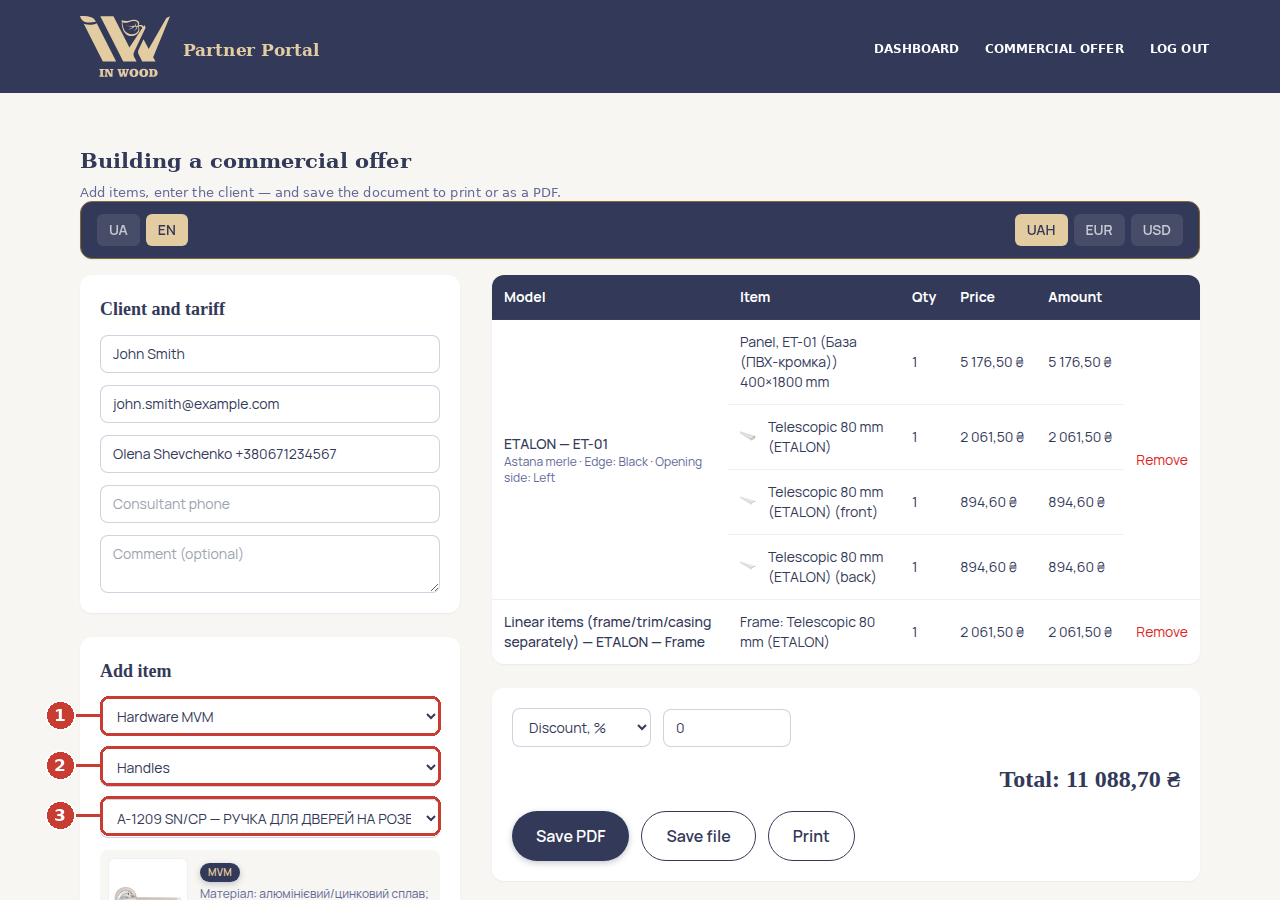
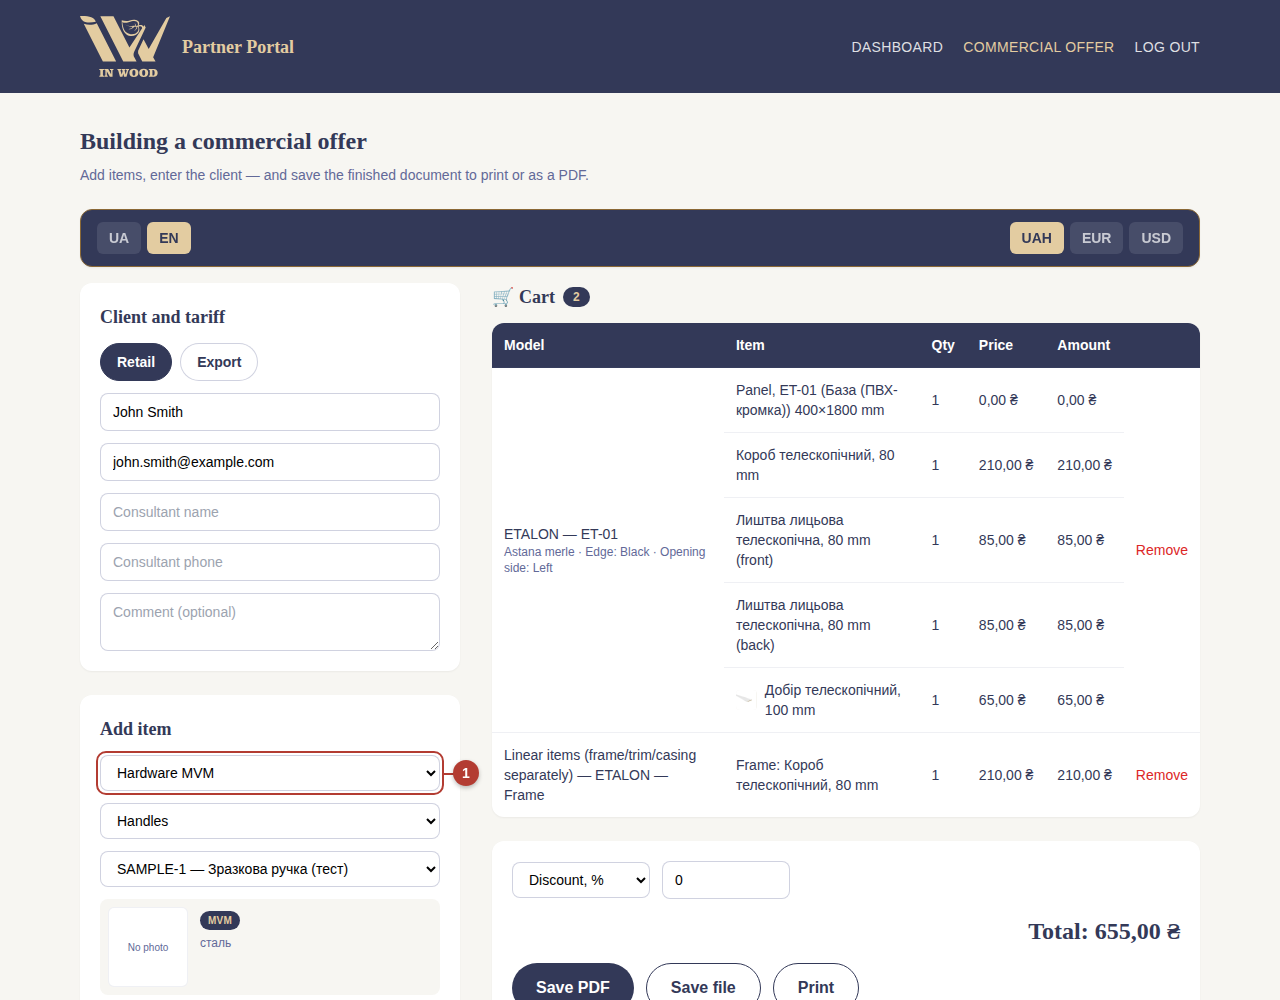
Update calculator guide for the cart/tariff-toggle UI, add download button
Retook the screenshots that show the tariff selector, "Кошик"/"Cart"
heading and the renamed "Додати в кошик"/"Add to cart" button (both UA
and EN guides); left screenshots of unaffected steps (login, dashboard,
model picker) as they were. Added a short new paragraph explaining that
tariff buttons recompute prices for items already in the cart.

Also add an explicit "Скачати"/"Download" button next to each guide link
(previously view-only), matching the pattern already used for the price
lists.

Claude-Session: https://claude.ai/code/session_01M4ragP56yp6LZMW2UaRQXo

diff --git a/public/documents/instruktsiya-kalkuliator.html b/public/documents/instruktsiya-kalkuliator.html
@@ -184,11 +184,12 @@
     <p>Перш ніж заповнювати — коротко про те, що є на екрані:</p>
     <ol class="points">
       <li><b>Панель мови й валюти</b> — переключити весь калькулятор на англійську та/або перерахувати ціни в EUR/USD (про це нижче, кроки 8–9).</li>
-      <li><b>«Клієнт і тариф»</b> — ім'я й телефон клієнта, для кого робите пропозицію.</li>
+      <li><b>«Клієнт і тариф»</b> — ім'я й телефон клієнта, для кого робите пропозицію. Тут-таки — кнопки тарифу (напр. «Дилерська» / «Роздрібна»): якою натиснута, за такою ціною й рахує калькулятор.</li>
       <li><b>«Додати позицію»</b> — тут обираєте модель, колір, розмір і все комплектуючі для однієї позиції КП.</li>
-      <li><b>Таблиця справа</b> — сюди потрапляють усі додані позиції, тут же підсумкова сума.</li>
+      <li><b>«Кошик» справа</b> — сюди потрапляють усі додані позиції (кнопкою «Додати в кошик»), тут же підсумкова сума.</li>
     </ol>
-    <div class="shot"><img src="instruktsiya-kalkuliator-img/03-overview.png?v=2" alt="Загальний вигляд калькулятора"></div>
+    <div class="shot"><img src="instruktsiya-kalkuliator-img/03-overview.png?v=3" alt="Загальний вигляд калькулятора"></div>
+    <div class="callout"><b>Новинка:</b> кнопки тарифу працюють і для вже доданих у кошик позицій — натиснули іншу кнопку, і ціна всього кошика одразу перерахувалась під новий тариф, нічого видаляти й збирати заново не треба. Зручно, щоб швидко показати собі і дилерську, і роздрібну ціну одного й того ж замовлення.</div>
   </div>
 
   <div class="step" id="s4">
@@ -207,7 +208,7 @@
       <li><b>Ширина і висота</b> — зі стандартного ряду розмірів. Нижче в тому самому списку є ще кілька нестандартних значень (крок 50 мм) з позначкою «нестандарт +20%» — вибираєте просто зі списку, доплату калькулятор порахує сам.</li>
     </ol>
     <div class="shot"><img src="instruktsiya-kalkuliator-img/05-model.png?v=2" alt="Вибір моделі, кольору і розміру"></div>
-    <div class="callout"><b>Якщо з'явились ще поля</b> — «Колір крайки», «Колір вставки» чи «Сторона відкривання» — вони обов'язкові саме для цієї моделі, заповніть і їх, інакше кнопка «Додати позицію» внизу лишиться неактивною.</div>
+    <div class="callout"><b>Якщо з'явились ще поля</b> — «Колір крайки», «Колір вставки» чи «Сторона відкривання» — вони обов'язкові саме для цієї моделі, заповніть і їх, інакше кнопка «Додати в кошик» внизу лишиться неактивною.</div>
   </div>
 
   <div class="step" id="s6">
@@ -224,28 +225,28 @@
 
   <div class="step" id="s7">
     <div class="step-head"><span class="step-num">7</span><h2>Додавання позиції й підсумок</h2></div>
-    <p>Коли все обрано — кнопка <b>«Додати позицію»</b> стає активною. Натисніть її: рядок переходить у таблицю справа, і можна одразу додавати наступну позицію (інша модель чи колір) тим самим способом.</p>
+    <p>Коли все обрано — кнопка <b>«Додати в кошик»</b> стає активною. Натисніть її: рядок переходить у «Кошик» справа, і можна одразу додавати наступну позицію (інша модель чи колір) тим самим способом.</p>
     <ol class="points">
       <li>Позиція з повною розбивкою ціни по кожній складовій.</li>
       <li>«Видалити» — прибрати позицію, якщо помилились.</li>
       <li>Знижка — у відсотках або в гривнях, якщо домовились з клієнтом.</li>
-      <li>Підсумкова сума по всьому КП.</li>
+      <li>Підсумкова сума по всьому кошику.</li>
       <li>Три кнопки збереження — про них у кроці 10.</li>
     </ol>
-    <div class="shot"><img src="instruktsiya-kalkuliator-img/06-table.png?v=3" alt="Позицію додано в таблицю"></div>
+    <div class="shot"><img src="instruktsiya-kalkuliator-img/06-table.png?v=3" alt="Позицію додано в кошик"></div>
   </div>
 
   <div class="step" id="s8">
     <div class="step-head"><span class="step-num">8</span><h2>Переклад на англійську</h2></div>
     <p>Якщо клієнт — іноземний, натисніть <b>EN</b> у панелі зверху: весь екран (назви, кнопки, таблиця) одразу перемикається на англійську, не лише друкований бланк.</p>
-    <div class="shot"><img src="instruktsiya-kalkuliator-img/07-english.png?v=2" alt="Перемикач англійської мови"></div>
+    <div class="shot"><img src="instruktsiya-kalkuliator-img/07-english.png?v=3" alt="Перемикач англійської мови"></div>
     <p class="note">Повернутись назад — та сама кнопка, тільки UA.</p>
   </div>
 
   <div class="step" id="s9">
     <div class="step-head"><span class="step-num">9</span><h2>Перерахунок у валюту</h2></div>
     <p>Поруч, справа — вибір валюти: UAH / EUR / USD. Оберіть EUR або USD, впишіть курс у полі праворуч — усі ціни в таблиці й підсумок одразу перерахуються.</p>
-    <div class="shot"><img src="instruktsiya-kalkuliator-img/08-eur.png?v=2" alt="Перерахунок цін у євро"></div>
+    <div class="shot"><img src="instruktsiya-kalkuliator-img/08-eur.png?v=3" alt="Перерахунок цін у євро"></div>
   </div>
 
   <div class="step" id="s10">
@@ -269,9 +270,9 @@
       <li><b>Тип</b> — короб, лиштва чи добір.</li>
       <li><b>Позиція</b> — конкретний виріб зі списку.</li>
     </ol>
-    <div class="shot"><img src="instruktsiya-kalkuliator-img/09-pogonazhni.png?v=2" alt="Вибір погонажних виробів"></div>
-    <p>Додається в таблицю так само кнопкою «Додати позицію» — ціна й кількість працюють ідентично до звичайної позиції.</p>
-    <div class="shot"><img src="instruktsiya-kalkuliator-img/10-pogonazhni-result.png?v=2" alt="Погонажний виріб додано в таблицю"></div>
+    <div class="shot"><img src="instruktsiya-kalkuliator-img/09-pogonazhni.png?v=3" alt="Вибір погонажних виробів"></div>
+    <p>Додається в кошик так само кнопкою «Додати в кошик» — ціна й кількість працюють ідентично до звичайної позиції.</p>
+    <div class="shot"><img src="instruktsiya-kalkuliator-img/10-pogonazhni-result.png?v=3" alt="Погонажний виріб додано в кошик"></div>
   </div>
 
   <div class="step" id="s12">
@@ -281,14 +282,14 @@
       <li><b>Категорія</b> — ручки, завіси, замки, упори, механізми тощо.</li>
       <li><b>Артикул</b> — конкретна позиція; одразу під селектом з'явиться фото й матеріал.</li>
     </ol>
-    <div class="shot"><img src="instruktsiya-kalkuliator-img/11-hardware.png?v=2" alt="Вибір фурнітури"></div>
-    <p>Так само натискаєте «Додати позицію» — готово.</p>
-    <div class="shot"><img src="instruktsiya-kalkuliator-img/12-hardware-result.png?v=2" alt="Фурнітуру додано в таблицю"></div>
+    <div class="shot"><img src="instruktsiya-kalkuliator-img/11-hardware.png?v=3" alt="Вибір фурнітури"></div>
+    <p>Так само натискаєте «Додати в кошик» — готово.</p>
+    <div class="shot"><img src="instruktsiya-kalkuliator-img/12-hardware-result.png?v=3" alt="Фурнітуру додано в кошик"></div>
   </div>
 
   <div class="step" id="s13">
     <div class="step-head"><span class="step-num">13</span><h2>Коротко: що обов'язково заповнювати</h2></div>
-    <p>Якщо не внесли колір, розмір, сторону відкривання чи інше обов'язкове для цієї моделі поле — кнопка «Додати позицію» просто не стане активною. Пройдіться по формі зверху вниз і перевірте, що все заповнено.</p>
+    <p>Якщо не внесли колір, розмір, сторону відкривання чи інше обов'язкове для цієї моделі поле — кнопка «Додати в кошик» просто не стане активною. Пройдіться по формі зверху вниз і перевірте, що все заповнено.</p>
   </div>
 
   <hr class="rule">

diff --git a/public/documents/instruktsiya-kalkuliator-en.html b/public/documents/instruktsiya-kalkuliator-en.html
@@ -182,12 +182,13 @@
     <p>Before filling anything in, a quick look at the screen:</p>
     <ol class="points">
       <li><b>Language &amp; currency bar</b> — already set to English for your account; also lets you convert prices to EUR/USD (covered in step 8).</li>
-      <li><b>"Client and tariff"</b> — the client's name and phone/email for this quote.</li>
+      <li><b>"Client and tariff"</b> — the client's name and phone/email for this quote. Right here are the tariff buttons too (e.g. "Export" / "Retail") — whichever one is pressed, that's the price the calculator uses.</li>
       <li><b>"Add item"</b> — choose the model, colour, size and all the add-ons for one line of the quote here.</li>
-      <li><b>Table on the right</b> — every item you add lands here, along with the running total.</li>
+      <li><b>"Cart" on the right</b> — every item you add (with the "Add to cart" button) lands here, along with the running total.</li>
     </ol>
-    <div class="shot"><img src="instruktsiya-kalkuliator-en-img/e03-overview.png?v=2" alt="Calculator overview with EN already selected"></div>
+    <div class="shot"><img src="instruktsiya-kalkuliator-en-img/e03-overview.png?v=3" alt="Calculator overview with EN already selected"></div>
     <p class="note">The calculator opens with <b>EN</b> already selected for your account — field names, buttons and the table are all in English from the start. The <b>UA</b> button next to it switches everything to Ukrainian, if you ever need to.</p>
+    <div class="callout"><b>New:</b> the tariff buttons also work on items already in the cart — press a different one, and the whole cart's price recalculates instantly under the new tariff, no need to delete and re-add anything. Handy for quickly showing both the export and retail price for the same order.</div>
   </div>
 
   <div class="step" id="s4">
@@ -206,7 +207,7 @@
       <li><b>Width and height</b> — from the standard size range. Further down the same list there are a few non-standard values too (50 mm steps), marked "non-standard +20%" — just pick one from the list, the calculator works out the surcharge itself.</li>
     </ol>
     <div class="shot"><img src="instruktsiya-kalkuliator-en-img/e05-model.png?v=2" alt="Model, colour and size selected"></div>
-    <div class="callout"><b>If extra fields appear</b> — "Edge colour", "Insert colour" or "Opening side" — they're required specifically for this model. Fill them in too, otherwise the "Add item" button further down will stay disabled.</div>
+    <div class="callout"><b>If extra fields appear</b> — "Edge colour", "Insert colour" or "Opening side" — they're required specifically for this model. Fill them in too, otherwise the "Add to cart" button further down will stay disabled.</div>
   </div>
 
   <div class="step" id="s6">
@@ -224,7 +225,7 @@
 
   <div class="step" id="s7">
     <div class="step-head"><span class="step-num">7</span><h2>Adding the item and the totals table</h2></div>
-    <p>Once everything required is filled in, the <b>"Add item"</b> button becomes active. Click it: the line moves into the table on the right, and you can immediately start adding the next item (a different model or colour) the same way.</p>
+    <p>Once everything required is filled in, the <b>"Add to cart"</b> button becomes active. Click it: the line moves into the "Cart" on the right, and you can immediately start adding the next item (a different model or colour) the same way.</p>
     <ol class="points">
       <li>Each item shows a full price breakdown by component.</li>
       <li>"Remove" — delete an item if you made a mistake.</li>
@@ -232,7 +233,7 @@
       <li>The running total for the whole quote.</li>
       <li>Three save buttons — covered in the next step.</li>
     </ol>
-    <div class="shot"><img src="instruktsiya-kalkuliator-en-img/e07-table.png?v=3" alt="Item added to the table, with totals"></div>
+    <div class="shot"><img src="instruktsiya-kalkuliator-en-img/e07-table.png?v=3" alt="Item added to the cart, with totals"></div>
   </div>
 
   <div class="step" id="s8">
@@ -244,7 +245,7 @@
       <li><b>Save file</b> — an alternative way to save the document.</li>
       <li><b>Print</b> — opens the print dialog if you need a hard copy immediately.</li>
     </ol>
-    <div class="shot"><img src="instruktsiya-kalkuliator-en-img/e08-eur-save.png?v=2" alt="Currency switched to EUR, with the save and print buttons"></div>
+    <div class="shot"><img src="instruktsiya-kalkuliator-en-img/e08-eur-save.png?v=3" alt="Currency switched to EUR, with the save and print buttons"></div>
     <p>That's it — the commercial offer is ready.</p>
   </div>
 
@@ -258,9 +259,9 @@
       <li><b>Type</b> — frame, trim or casing.</li>
       <li><b>Item</b> — the specific product from the list.</li>
     </ol>
-    <div class="shot"><img src="instruktsiya-kalkuliator-en-img/e09-linear-select.png?v=2" alt="Selecting a linear item (frame/trim/casing)"></div>
-    <p>It's added to the table the same way, with the "Add item" button — price and quantity work exactly like a regular item.</p>
-    <div class="shot"><img src="instruktsiya-kalkuliator-en-img/e10-linear-result.png?v=2" alt="Linear item added to the table"></div>
+    <div class="shot"><img src="instruktsiya-kalkuliator-en-img/e09-linear-select.png?v=3" alt="Selecting a linear item (frame/trim/casing)"></div>
+    <p>It's added to the cart the same way, with the "Add to cart" button — price and quantity work exactly like a regular item.</p>
+    <div class="shot"><img src="instruktsiya-kalkuliator-en-img/e10-linear-result.png?v=3" alt="Linear item added to the cart"></div>
   </div>
 
   <div class="step" id="s10">
@@ -270,15 +271,15 @@
       <li><b>Category</b> — handles, hinges, locks, stops, mechanisms, etc.</li>
       <li><b>Article</b> — the specific item; its photo and material appear right under the select.</li>
     </ol>
-    <div class="shot"><img src="instruktsiya-kalkuliator-en-img/e11-hardware-select.png?v=2" alt="Selecting hardware"></div>
-    <p>Click "Add item" the same way — done.</p>
-    <div class="shot"><img src="instruktsiya-kalkuliator-en-img/e12-hardware-result.png?v=2" alt="Hardware item added to the table"></div>
+    <div class="shot"><img src="instruktsiya-kalkuliator-en-img/e11-hardware-select.png?v=3" alt="Selecting hardware"></div>
+    <p>Click "Add to cart" the same way — done.</p>
+    <div class="shot"><img src="instruktsiya-kalkuliator-en-img/e12-hardware-result.png?v=3" alt="Hardware item added to the cart"></div>
     <p class="note">Hardware item names and materials currently display in Ukrainian regardless of the language switch — the article code itself (e.g. A-1209 SN/CP) is language-neutral and fine for ordering.</p>
   </div>
 
   <div class="step" id="s11">
     <div class="step-head"><span class="step-num">11</span><h2>In short: required fields</h2></div>
-    <p>If you haven't filled in a colour, size, opening side or any other field required for that particular model, the "Add item" button simply won't become active. Go through the form from top to bottom and check that everything is filled in.</p>
+    <p>If you haven't filled in a colour, size, opening side or any other field required for that particular model, the "Add to cart" button simply won't become active. Go through the form from top to bottom and check that everything is filled in.</p>
   </div>
 
   <hr class="rule">

diff --git a/app/portal/page.tsx b/app/portal/page.tsx
@@ -119,29 +119,47 @@ export default async function PortalDashboardPage() {
               {en ? "IN WOOD Line-Up Reference" : "Довідник по лінійках IN WOOD"}
             </a>
             {effectiveRole === "export" ? (
-              <a
-                href="/documents/instruktsiya-kalkuliator-en.html"
-                target="_blank"
-                rel="noopener noreferrer"
-                className="relative rounded-full bg-red-600 px-4 py-2 text-sm font-semibold text-white shadow-sm transition hover:bg-red-700"
-              >
-                Calculator Guide
+              <div className="relative flex items-center gap-2 rounded-full bg-red-600 py-1.5 pl-4 pr-1.5 shadow-sm">
+                <a
+                  href="/documents/instruktsiya-kalkuliator-en.html?v=3"
+                  target="_blank"
+                  rel="noopener noreferrer"
+                  className="text-sm font-semibold text-white"
+                >
+                  Calculator Guide
+                </a>
+                <a
+                  href="/documents/instruktsiya-kalkuliator-en.html?v=3"
+                  download="IN WOOD Calculator Guide.html"
+                  className="rounded-full bg-navy-dark px-3 py-1.5 text-xs font-semibold text-white transition hover:bg-gold hover:text-navy-dark"
+                >
+                  Download
+                </a>
                 <span className="absolute -top-2.5 -right-2.5 rounded-full bg-navy-dark px-2 py-0.5 text-[10px] font-bold uppercase tracking-wide text-gold">
                   Required
                 </span>
-              </a>
+              </div>
             ) : (
-              <a
-                href="/documents/instruktsiya-kalkuliator.html"
-                target="_blank"
-                rel="noopener noreferrer"
-                className="relative rounded-full bg-red-600 px-4 py-2 text-sm font-semibold text-white shadow-sm transition hover:bg-red-700"
-              >
-                Інструкція до калькулятора КП
+              <div className="relative flex items-center gap-2 rounded-full bg-red-600 py-1.5 pl-4 pr-1.5 shadow-sm">
+                <a
+                  href="/documents/instruktsiya-kalkuliator.html?v=3"
+                  target="_blank"
+                  rel="noopener noreferrer"
+                  className="text-sm font-semibold text-white"
+                >
+                  Інструкція до калькулятора КП
+                </a>
+                <a
+                  href="/documents/instruktsiya-kalkuliator.html?v=3"
+                  download="Інструкція до калькулятора КП IN WOOD.html"
+                  className="rounded-full bg-navy-dark px-3 py-1.5 text-xs font-semibold text-white transition hover:bg-gold hover:text-navy-dark"
+                >
+                  Скачати
+                </a>
                 <span className="absolute -top-2.5 -right-2.5 rounded-full bg-navy-dark px-2 py-0.5 text-[10px] font-bold uppercase tracking-wide text-gold">
                   Обов&apos;язково
                 </span>
-              </a>
+              </div>
             )}
           </div>
         </div>
